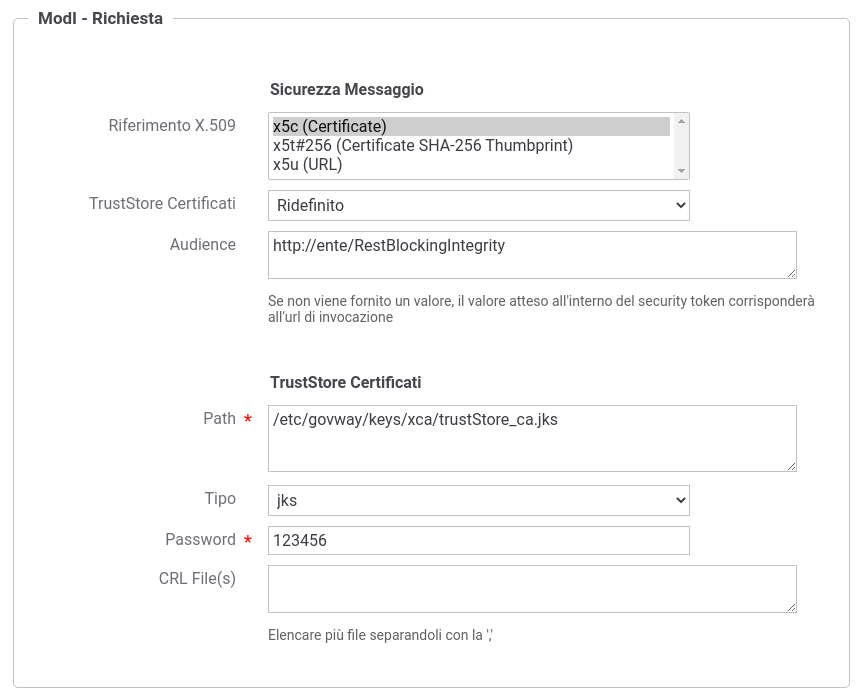
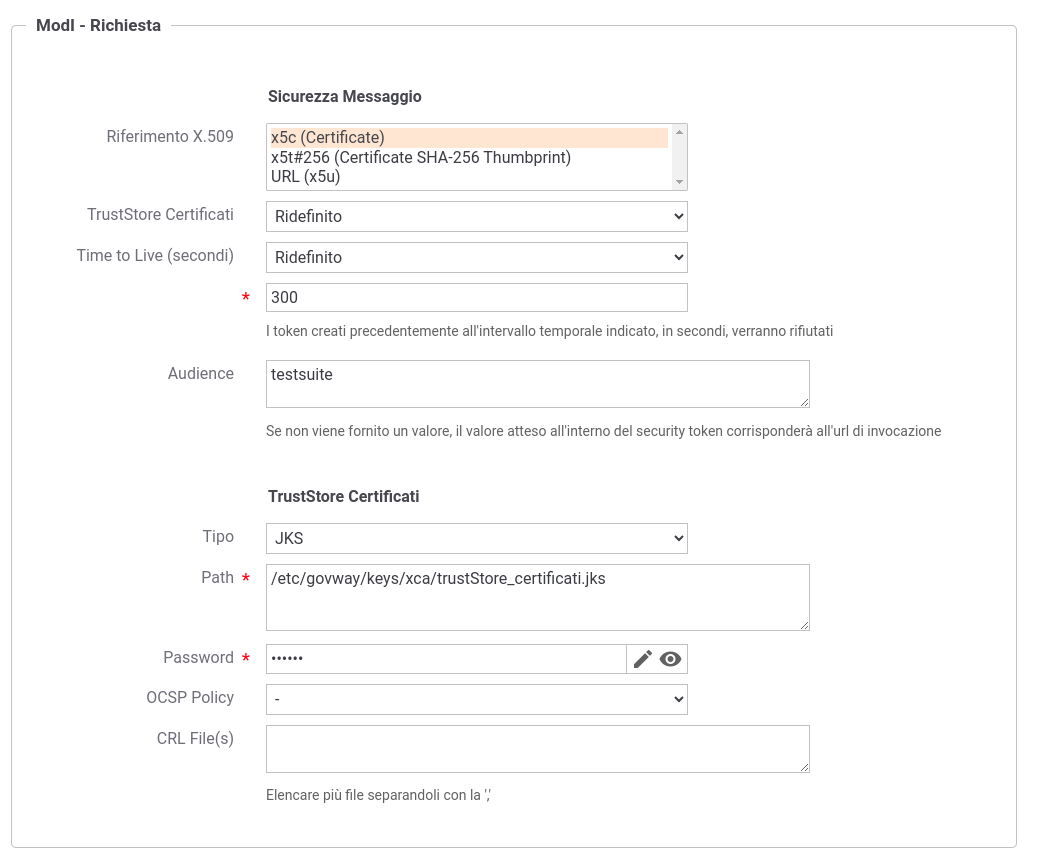
[Documentazione] Aggiunta descrizione campo 'TTL' nella scheda di configurazione relativa alla validazione di un token ID_AUTH_REST_01 (X.509)

diff --git a/resources/doc/src/manuali/console/profiloModIPA/messaggio/idar01/x509/idar01_fruizione.rst b/resources/doc/src/manuali/console/profiloModIPA/messaggio/idar01/x509/idar01_fruizione.rst
@@ -45,6 +45,7 @@ L'interfaccia per la creazione della fruizione, basata su una API con pattern "I
 
     - Riferimento X.509: il metodo per la localizzazione del certificato del destinatario nel messaggio di risposta. Si può mantenere la medesima impostazione prevista per il messaggio di richiesta o ridefinirla.
     - TrustStore Certificati: Riferimento al truststore che contiene le CA, i certificati, CRL e policy OCSP da utilizzare per poter verificare i token di sicurezza ricevuti nelle risposte. È possibile mantenere l'impostazione di default che è stata fornita al momento dell'installazione del prodotto, oppure definire un diverso riferimento (opzione "Ridefinito") fornendo Path, Tipo, Password del TrustStore e criteri di verifica tramite CRL o OCSP.
+    - Time to Live (secondi): consente di modificare l'intervallo temporale di default (300 secondi) utilizzato per rifiutare i token creati precedentemente all'intervallo indicato. 
     - Verifica Audience: Se l'opzione è abilitata, viene effettuata la verifica che il campo Audience, presente nel token di sicurezza della risposta, corrisponda al valore presente nel campo successivo, se indicato, o altrimenti a quello configurato nell'applicativo mittente nella voce 'Identificativo Client'.
 
   .. figure:: ../../../../_figure_console/modipa_fruizione_risposta.png

diff --git a/resources/doc/src/manuali/console/profiloModIPA/messaggio/idar01/x509/idar01_erogazione.rst b/resources/doc/src/manuali/console/profiloModIPA/messaggio/idar01/x509/idar01_erogazione.rst
@@ -28,6 +28,7 @@ L'interfaccia per la creazione dell'erogazione, basata su una API con pattern "I
 
     + Riferimento X.509 (presente solo per API REST): il metodo per la localizzazione del certificato dell'applicativo mittente nel messaggio di richiesta. Il valore fornito deve corrispondere alla scelta operata dai mittenti.  I valori possibili sono quelli previsti nella specifica AGID.
     + TrustStore Certificati: Riferimento al truststore che contiene le CA, i certificati, CRL e policy OCSP da utilizzare per poter verificare i token di sicurezza ricevuti nelle richieste. È possibile mantenere l'impostazione di default che è stata fornita al momento dell'installazione del prodotto, oppure definire un diverso riferimento (opzione "Ridefinito") fornendo Path, Tipo, Password del TrustStore e criteri di verifica tramite CRL o OCSP.
+    + Time to Live (secondi): consente di modificare l'intervallo temporale di default (300 secondi) utilizzato per rifiutare i token creati precedentemente all'intervallo indicato.
     + Audience: valore del campo Audience atteso nel token di sicurezza della richiesta.
 
   .. figure:: ../../../../_figure_console/modipa_erogazione_richiesta.png
